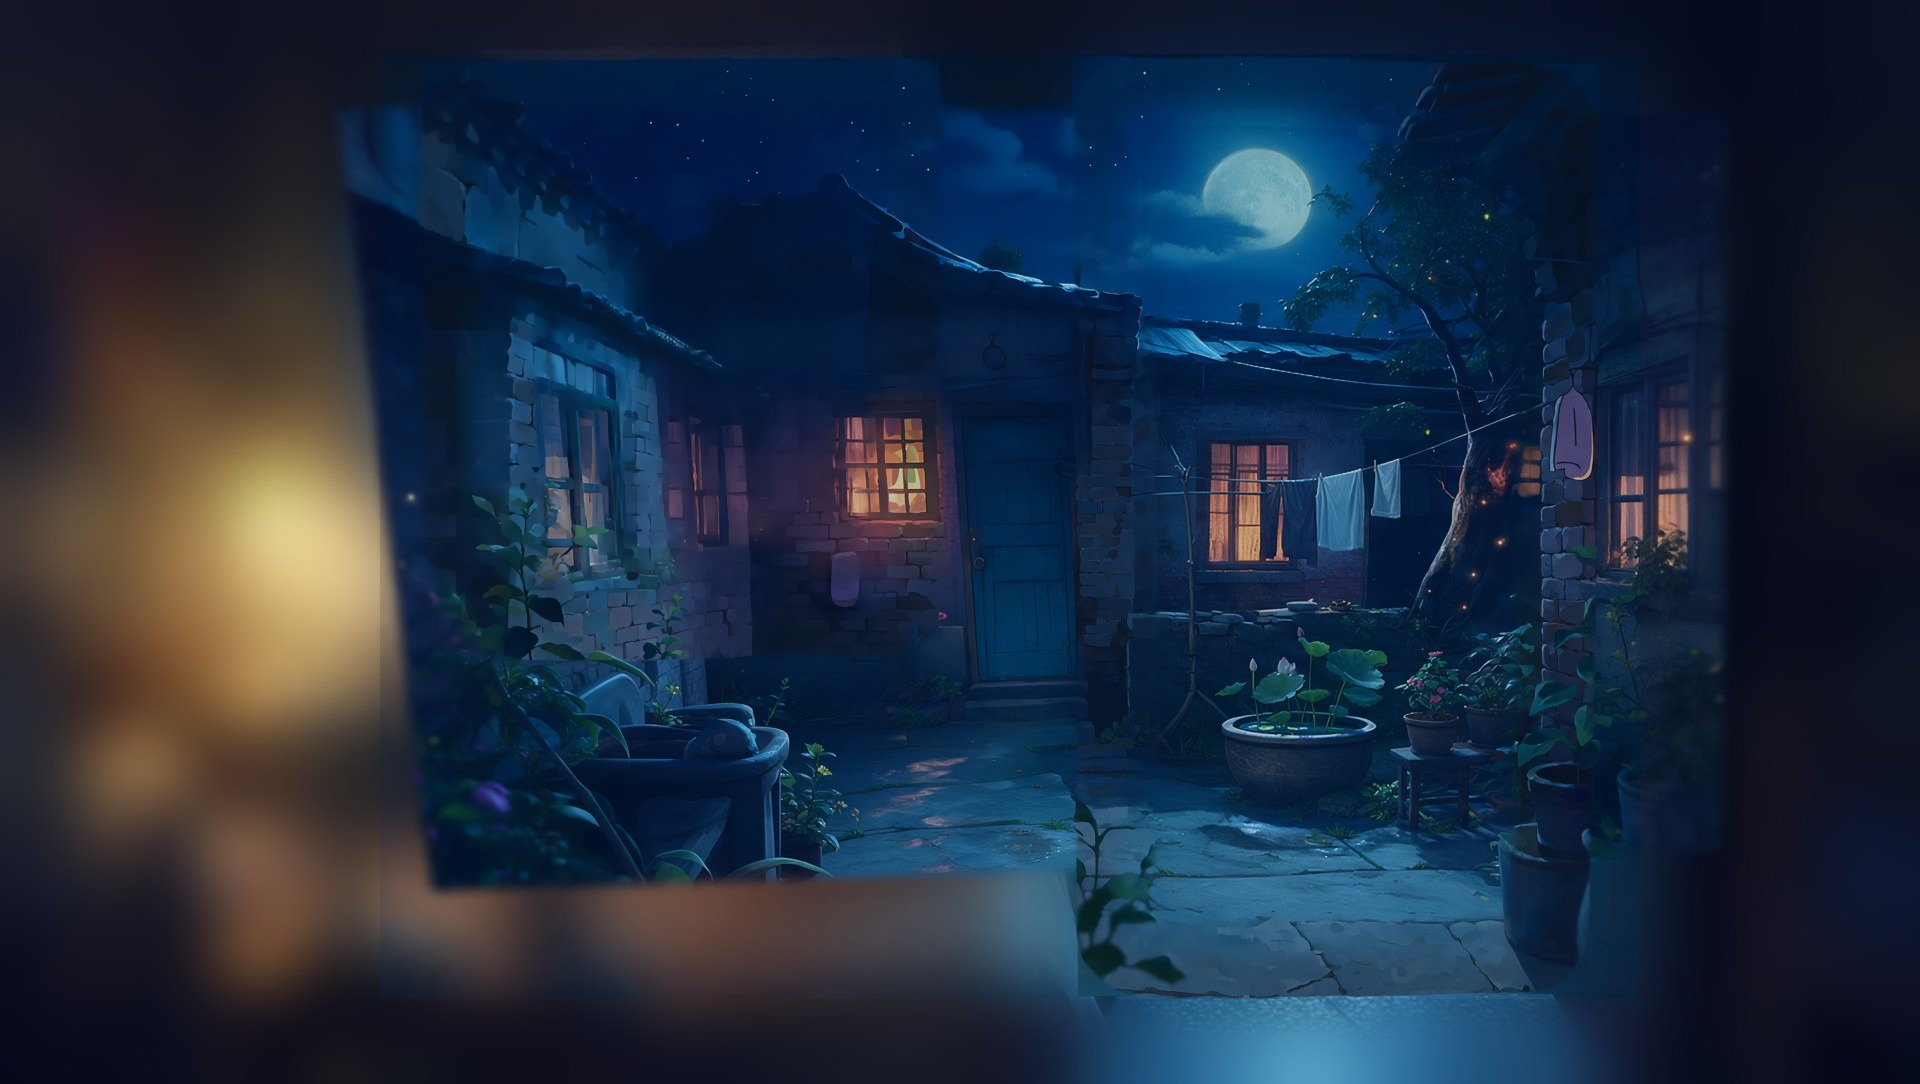
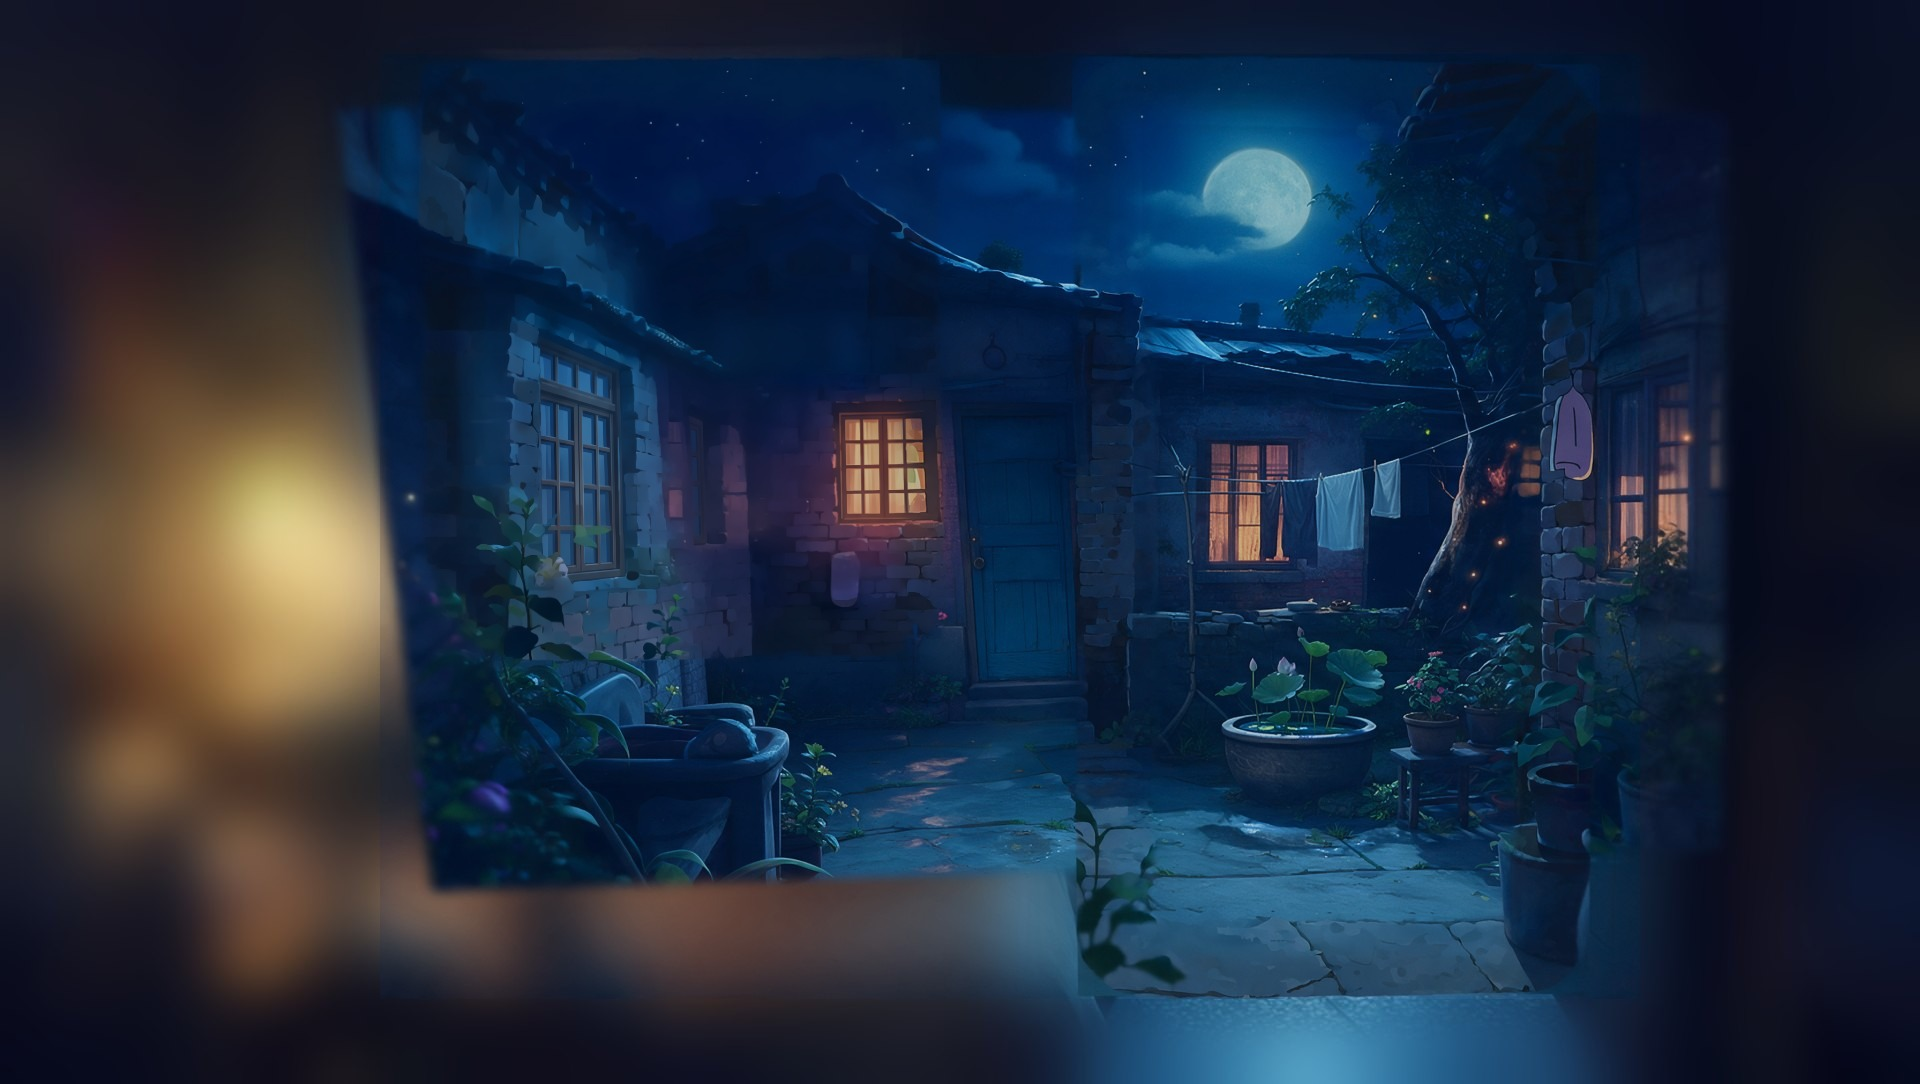
China: straighten neighbour house windows seen through the window (Nano Banana), keep edge-preserving smoothing
Claude-Session: https://claude.ai/code/session_01WmePPEVtycNtDwciTC66yT

Changed region(s): [[0.2812, 0.3044, 0.375, 0.548], [0.4375, 0.3653, 0.4688, 0.4871]]

diff --git a/public/index.html b/public/index.html
@@ -449,7 +449,7 @@ function framesFor(key){if(!LABFR||!LABFR[key])return null;if(FRM[key])return FR
     return Promise.all([...[...Array(j.n).keys()].flatMap(i=>[loadTex(dir+'/on_'+id(i)+'.jpg'),loadTex(dir+'/off_'+id(i)+'.jpg')]),
       ...[...Array(j.n-1).keys()].flatMap(i=>[loadTex(dir+'/fab_'+id(i)+'.png'),loadTex(dir+'/fba_'+id(i)+'.png')])])}).then(a=>{const m=2*F.n,A=a.slice(0,m),B=a.slice(m);
       F.on=A.filter((_,i)=>i%2==0);F.off=A.filter((_,i)=>i%2==1);F.fab=B.filter((_,i)=>i%2==0);F.fba=B.filter((_,i)=>i%2==1);F.ready=true}).catch(()=>{});return F}
-function texFor(key){if(!cache.has(key))cache.set(key,Promise.all(FILES.map(n=>loadTex(((LAB&&LAB[key])||key)+'/'+n+(/^(out_|mask|plate_|maps)/.test(n)?'?v=23':'')))).then(a=>Object.fromEntries(FILES.map((n,i)=>[n.split('.')[0],a[i]]))));return cache.get(key)}
+function texFor(key){if(!cache.has(key))cache.set(key,Promise.all(FILES.map(n=>loadTex(((LAB&&LAB[key])||key)+'/'+n+(/^(out_|mask|plate_|maps)/.test(n)?'?v=24':'')))).then(a=>Object.fromEntries(FILES.map((n,i)=>[n.split('.')[0],a[i]]))));return cache.get(key)}
 function evict(keep){for(const [k,p] of cache)if(!keep.includes(k)){cache.delete(k);p.then(T=>Object.values(T).forEach(t=>t.dispose()))}}
 const tvCan=document.createElement('canvas');tvCan.width=128;tvCan.height=96;const tvCtx=tvCan.getContext('2d');
 const tTV=new THREE.CanvasTexture(tvCan);tTV.minFilter=THREE.LinearFilter;tTV.generateMipmaps=false;

diff --git a/public/lab.html b/public/lab.html
@@ -450,7 +450,7 @@ function framesFor(key){if(!LABFR||!LABFR[key])return null;if(FRM[key])return FR
     return Promise.all([...[...Array(j.n).keys()].flatMap(i=>[loadTex(dir+'/on_'+id(i)+'.jpg'),loadTex(dir+'/off_'+id(i)+'.jpg')]),
       ...[...Array(j.n-1).keys()].flatMap(i=>[loadTex(dir+'/fab_'+id(i)+'.png'),loadTex(dir+'/fba_'+id(i)+'.png')])])}).then(a=>{const m=2*F.n,A=a.slice(0,m),B=a.slice(m);
       F.on=A.filter((_,i)=>i%2==0);F.off=A.filter((_,i)=>i%2==1);F.fab=B.filter((_,i)=>i%2==0);F.fba=B.filter((_,i)=>i%2==1);F.ready=true}).catch(()=>{});return F}
-function texFor(key){if(!cache.has(key))cache.set(key,Promise.all(FILES.map(n=>loadTex(((LAB&&LAB[key])||key)+'/'+n+(/^(out_|mask|plate_|maps)/.test(n)?'?v=23':'')))).then(a=>Object.fromEntries(FILES.map((n,i)=>[n.split('.')[0],a[i]]))));return cache.get(key)}
+function texFor(key){if(!cache.has(key))cache.set(key,Promise.all(FILES.map(n=>loadTex(((LAB&&LAB[key])||key)+'/'+n+(/^(out_|mask|plate_|maps)/.test(n)?'?v=24':'')))).then(a=>Object.fromEntries(FILES.map((n,i)=>[n.split('.')[0],a[i]]))));return cache.get(key)}
 function evict(keep){for(const [k,p] of cache)if(!keep.includes(k)){cache.delete(k);p.then(T=>Object.values(T).forEach(t=>t.dispose()))}}
 const tvCan=document.createElement('canvas');tvCan.width=128;tvCan.height=96;const tvCtx=tvCan.getContext('2d');
 const tTV=new THREE.CanvasTexture(tvCan);tTV.minFilter=THREE.LinearFilter;tTV.generateMipmaps=false;
